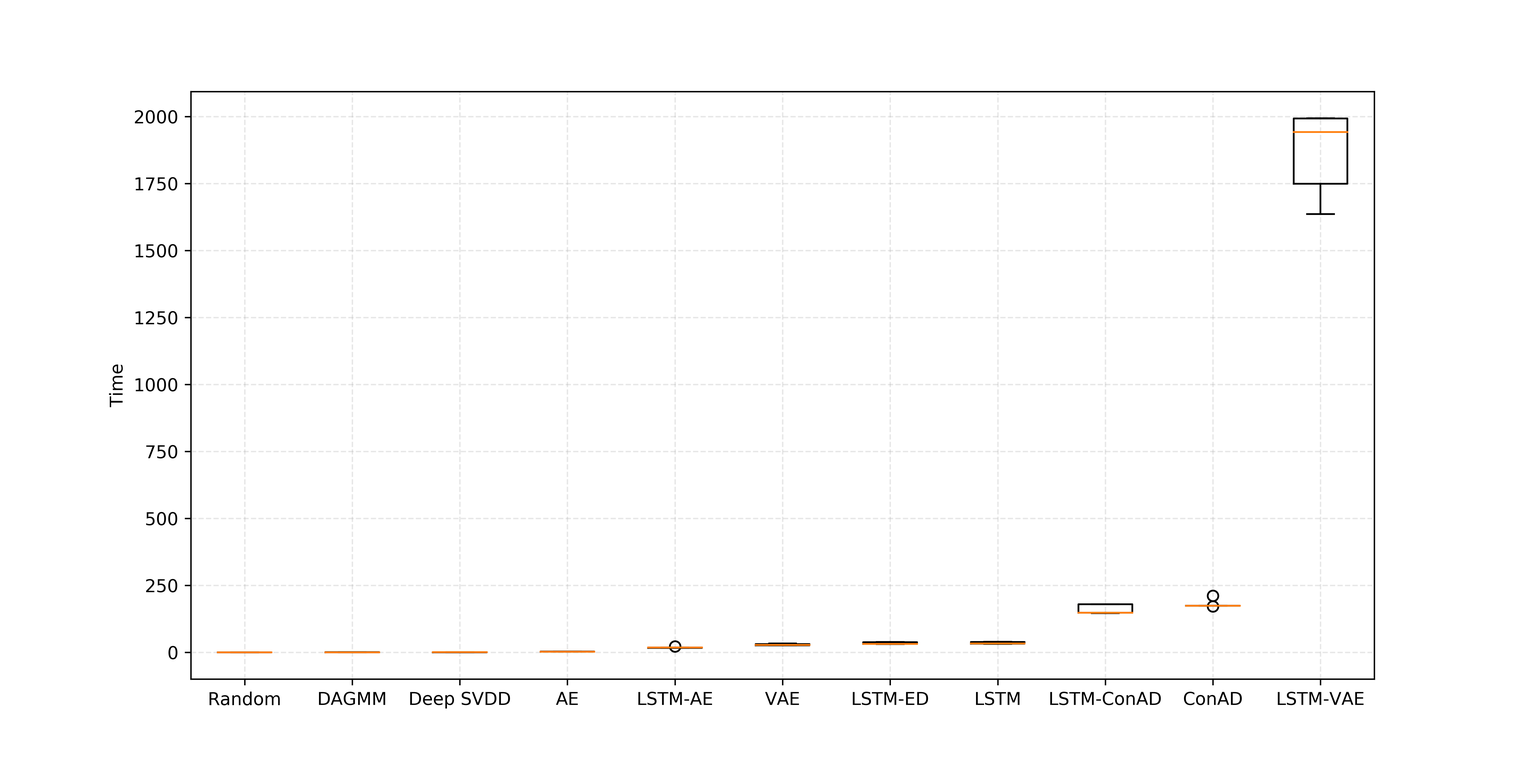
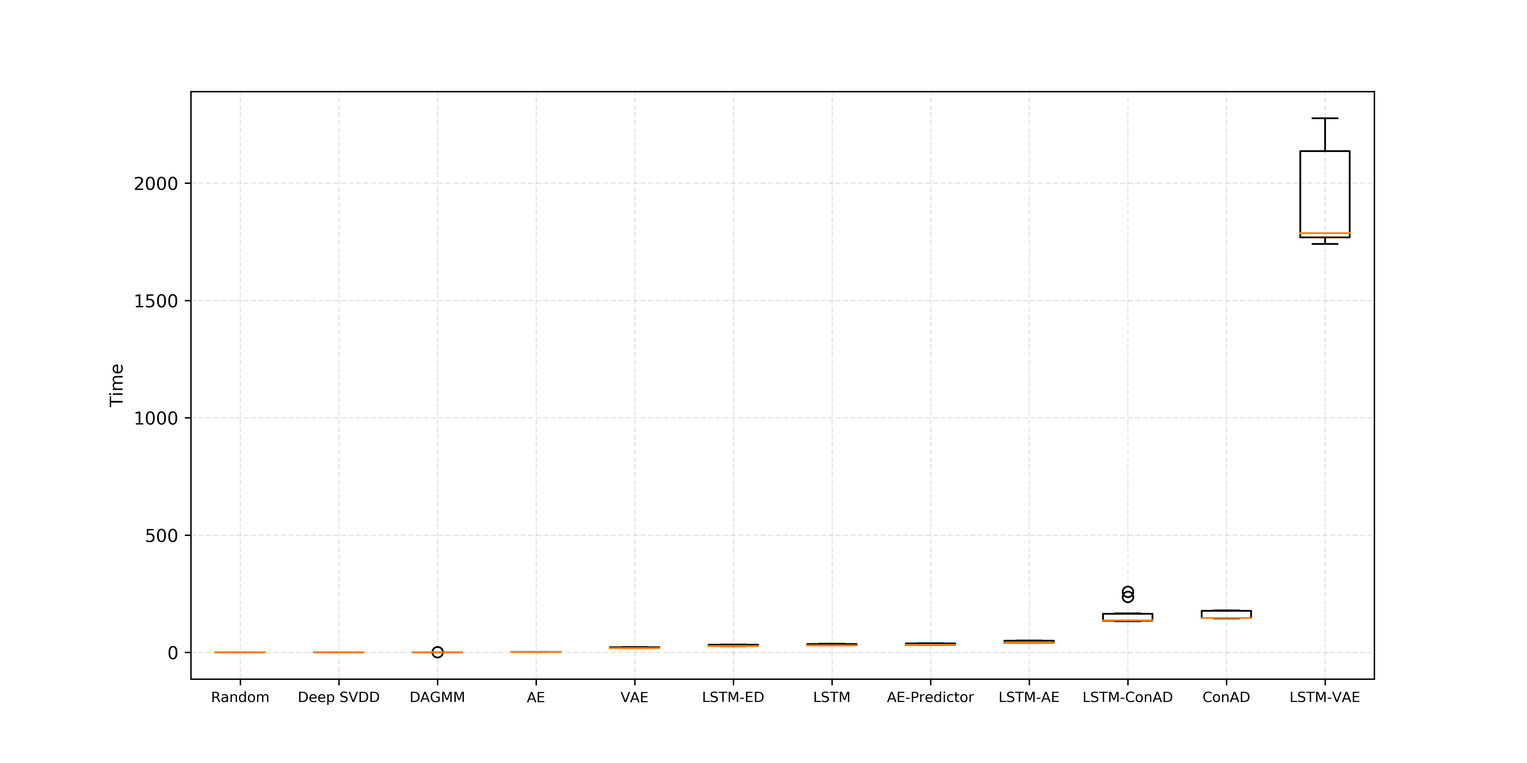
fix a piece of shit

diff --git a/data/chapter3.tex b/data/chapter3.tex
@@ -4,11 +4,11 @@
 \label{cha:intro}
 本章主要介绍本文实现的基于深度学习的时间序列异常检测框架，对执行流程和各个部分的设计进行详细说明。
 \section{形式化定义}
-首先我们形式化地描述一下时间序列异常检测问题。一个时间序列是等时间间隔收集到的各个指标的值，定义为$x=\{x_1,x_2,\dots,x_N\}$，$N$是采集的次数。由于本文考虑的是多元时间序列的异常检测，所以每个时间都会有多个监测指标的值，也就是其中$x_t\in R^M$，$x_t=[x_t^1,x_t^2,\dots,x_t^M]$，其中$t\leq N$，$M$是数据的维度。所以$x\in R^{N\times M}$。我们最终目标是输出一个$y=[y_1, y_2,\dots, y_N ]$，其中$y_t\in \{0,1\}$，$y_t=0$代表该时刻检测到的指标正常，否则认为发现一个异常。图\ref{fig:anomaly_example}展示了一个异常示例。
+首先我们形式化地描述一下时间序列异常检测问题。一个时间序列是等时间间隔收集到的各个指标的值，定义为$x=\{x_1,x_2,\dots,x_N\}$，$N$是采集的次数。由于本文考虑的是多元时间序列的异常检测，所以每个时间都会有多个监测指标的值，也就是其中$x_t\in R^M$，$x_t=[x_t^1,x_t^2,\dots,x_t^M]$，其中$t\leq N$，$M$是数据的维度。所以$x\in R^{N\times M}$。我们最终目标是输出一个$y=[y_1, y_2,\dots, y_N ]$，其中$y_t\in \{0,1\}$，$y_t=0$代表该时刻检测到的指标正常，否则认为发现一个异常。图\ref{fig:anomaly_example}展示了一个异常示例，其中标红部分为一个出现异常的事件段。
 \begin{figure}[htbp]
   \centering
   \includegraphics[width=\textwidth]{another_anomaly_example.png}
-  \caption{多维时间序列数据中的一个异常示例，其中标红部分为一个异常}
+  \caption{多维时间序列数据中的一个异常示例}
   \label{fig:anomaly_example}
 \end{figure}
 
@@ -22,12 +22,11 @@
     \label{fig:part1_overview}
   \end{figure}
 
-我们的框架分为训练和测试两种运行模式。
+本文涉及的框架分为训练和测试两个步骤。
 
-在训练模式中，我们需要先用正常数据结合某个特定的模型训练出一个适用于该数据集的模型。然后在测试时，模型对于每一时刻会输出一个异常分数通常为非负实数表示此时的异常程度，值越大表示越异常，但由于我们想得到的只有是否是异常，所以通常情况下我们还需要模型来提供一个阈值，当异常程度>给定阈值时，认为该条数据是异常，否则认为正常，然后将得到的预测结果送到评估模块与真实的异常标签进行结果的评估。由于阈值的确立有多种方法，每个算法适用的确立阈值的方法的也不尽相同，，因此我们同时枚举所有可能的阈值对结果进行评估，选取结果最好的来衡量模型的上限\cite{xu2018unsupervised,su2019robust,DBLP:conf/ipccc/LiCP18,DBLP:conf/infocom/ChenXLPCQFW19}，而且从实验结果来看这种方法下得到的指标与确立阈值之后指标有很强的相关性。
+在训练时，需要先用正常数据结合某个特定的模型训练出一个适用于该数据集的模型。然后在测试时，模型对于每一时刻会输出一个异常分数通常为非负实数表示此时的异常程度，值越大表示越异常，但由于最终输出的是一个是否是异常的01值，所以通常情况下还需要模型来提供一个阈值，当异常程度>给定阈值时，认为该条数据是异常，否则认为正常，然后将得到的预测结果送到评估模块与真实的异常标签进行结果的评估。由于阈值的确立有多种方法，每个算法适用的确立阈值的方法的也不尽相同，因此本文还同时枚举所有可能的阈值对结果进行评估，选取结果最好的来衡量模型的上限\cite{xu2018unsupervised,su2019robust,DBLP:conf/ipccc/LiCP18,DBLP:conf/infocom/ChenXLPCQFW19}。
 
-接下来分别对系统的几个关键部分进行阐述。
-
+接下来分别对框架的几个关键部分进行阐述
 \section{数据集选择}
 目前用来做多维时间序列数据异常检测的数据集如表~\ref{tab:dataset}所示：
 
@@ -87,24 +86,24 @@
 
 \section{动态阈值选取模块}
 因为我们在算法选择部分均是实现的无监督的算法，因此通常算法输出的是一个异常分数的非负实数值，而不是一个0或者1的确切值，也就是说我们得到的实际是$s = [s_1, s_2,\dots,s_N]$，其中$s_t\in R^+$，$t\leq N$，要想进一步得到$y$，我们需要一个模型提供的或者人为提供的阈值threshold来作进一步的变换：
-\begin{equation}
+\begin{equation*}
   y_t = \begin{cases}
     0, & s_t < threshold \cr
     1, & s_t \geq threshold
   \end{cases}
-\end{equation}
+\end{equation*}
 
 通常情况下，该阈值的确立有多种方法，一种是假设异常分数满足特定分布，例如高斯分布，求出正常数据下的异常分数的均值$\mu$和方差$\sigma$，那么异常分数超过$\mu + 3\sigma$的数据理论上不到0.3\%，那么我们就可以认为异常分数位于这个范围内数据是异常，但实际的异常分数很难从理论上证明符合高斯分布，通常情况下也确实不符合；还有一种比较简单的方式是假设异常是异常分数最高的那一批，通过人为设定一个分位数，例如5\%，那么在测试时就直接将最高的那5\%的数据标为异常，但这个分位数的选取也是个难题，毕竟异常的比例也不是事先就知道的，而且，还需要我们事先遍历整个测试集的情况下才能确立阈值，意味着我们只能做离线的异常检测；还有一种方法是通过在验证集上选取合适的阈值以及基于验证集和测试集情况类似的假设来期待在测试集上获得较好的效果，这种方法的缺点在于我们还需要另一份有标数据来进行阈值的确定，在真正落地的时候难度较大。
 
-受到\cite{siffer2017anomaly}的启发，我们使用了极值理论中的POT方法来确立异常分数的阈值，好处是无需对原分布做出任何假设，可以高效、准确、在线地确立阈值。其基本思想就是通过带有参数的GPD\footnote{Generalized Pareto Distribution，广义帕累托分布}来拟合概率分布的尾部：
-\begin{equation}
+受到\cite{siffer2017anomaly}的启发，我们使用了极值理论中的POT方法来确立异常分数的阈值，好处是无需对原分布做出任何假设，可以准确、在线地确立阈值。其基本思想就是通过带有参数的GPD\footnote{Generalized Pareto Distribution，广义帕累托分布}来拟合概率分布的尾部：
+\begin{equation*}
   \hat{F}_{th}(s) = P(S - th > s | S > th) \approx (1 + \frac{\gamma s}{\beta})^{-\frac{1}{\gamma}}
-\end{equation}
+\end{equation*}
 
 其中$th$是一个异常分数的初始阈值，用来确定尾部区域，可以凭经验地设为正常数据的异常分数的一个较大的分位数，$\gamma$和$\beta$是GPD的形状和比例参数，是两个未知参数，我们用最大似然估计的方法得到参数$\hat{\gamma}$和$\hat{\beta}$，然后通过以下公式计算最终阈值$th_F$：
-\begin{equation}
+\begin{equation*}
   th_F \approx th + \frac{\hat{\beta}}{\hat{\gamma}}((\frac{qN'}{N_{th}})^{-\hat{\gamma}}-1)
-\end{equation}
+\end{equation*}
 
 其中$q$是观察$S<th_F$的期望概率，也是POT算法的一个输入，可以凭经验确定，$N$是总的数据点个数，$N_{th}$是"尾部"的数据点的个数。
 
@@ -129,41 +128,41 @@
 
 \section{评价模块}
 在异常检测领域，用的最多的评价指标是F\_1-Score，计算方式为
-\begin{equation}
+\begin{equation*}
   Precision = \frac{TP}{TP + NP}
-\end{equation}
+\end{equation*}
 
-\begin{equation}
+\begin{equation*}
   Recall = \frac{TP}{TP + FN}
-\end{equation}
+\end{equation*}
 
-\begin{equation}
+\begin{equation*}
   F_1-Score = 2\times \frac { Precision \times Recall}{Precision + Recall}
-\end{equation}
+\end{equation*}
 
 其中$TP$、$TN$、$FP$、$FN$分别代表true positives、true negatives、false positives和 false negatives。$Precision$描绘的是实际异常占检测出的所有异常的比例，而$Recall$描绘了所有的异常中被检测到的比例，直觉上来看，两者是对立的，单用其中一个用来评价检测器的性能是不合理的。但在单点的异常检测中，将它们结合在一起的$F_1-Score$已经被认为是公认的有效的评价方式。但对于时间序列数据的异常检测来说，这样的评价就不太准确。主要原因是因为在时间序列数据中异常的发生通常是连续的一段，如图\ref{fig:anomaly_example}所示。对于一段真正的异常而言，检测到异常的点的个数以及检测出来的位置都反映了模型效果的不同，例如一段长度为10的异常，模型$A$检测到了其中的8个，而模型$B$只检测到了1个，那么相对而言前者的效果会更好；如果模型$A$在这段异常开始的第一个位置就检测到了异常，而模型$B$直到第5个点才检测到，那么在实际投入使用时，前者的效果一定是我们更想要，能够帮助工作人员更早地发现异常。之前的一些工作\cite{xu2018unsupervised}\cite{su2019robust}用了一种point-wise的方法来对算法得到的结果进行调整然后再进行评估，具体就是对于一个真实的异常而言，如果我们的算法主要检测到了范围内的一个，那么整段异常就认为都被检测到。该评价方法就没有考虑到检测到的点的位置和检测到的点数的影响，会造成评价指标的虚高。
 
 基于以上考虑，我们借用了\cite{tatbul2018precision}的新型的Precision和Recall的计算方式。
 
 首先我们将异常表示成区间的集合，真实的异常为$R=[R_1,R_2,\dots,R_{N_r}]$，其中每个$R_i$代表一个区间的异常，我们不放人为$R_i.l$和$R_i.r$分别代表该区间的左右端点。同理$P=[P_1,P_2,\dots,P_{N_p}]$表示预测出来的异常。
-\begin{equation}
+\begin{equation*}
   Recall(R,P) = \frac{\sum_{i=1}^{N_r} Recall_T(R_i,P)}{N_r}
-\end{equation}
+\end{equation*}
 
 其中$Recall_T$的计算由两部分加权组成：分别考虑了存在性以及位置性。
-\begin{equation}
+\begin{equation*}
   Recall_T(R_i,P) = \alpha \times ExistenceReward(R_i,P) + (1-\alpha) \times OverlapReward (R_i,P)
-\end{equation}
+\end{equation*}
 
 存在性只需要判断是否存在一个检测出的异常区间当前的实际异常有交集。
-\begin{equation}
+\begin{equation*}
 ExistenceReward(R_i,P) = \begin{cases} 1, & \ \exists \  | R_i \cap P_j|>1 \cr 0, & otherwise \end{cases}
-\end{equation}
+\end{equation*}
 
 而相交性则需要考虑重叠的位置和大小的关系，此处我们认为对于一个异常来说，越开始检测到对我们来说越重要，因此我们将靠前的位置分配较大的权重，具体计算如图~\ref{algorithm:omega1}所示。
-\begin{equation}
+\begin{equation*}
   OverlapReward(R_i,P) = \sum_{j=1}^{N_p}\omega(R_i,R_i\cap P_j)
-\end{equation}
+\end{equation*}
 \begin{algorithm}
   \caption{$\omega$ 计算方法1}
   \begin{algorithmic}
@@ -202,14 +201,14 @@ ExistenceReward(R_i,P) = \begin{cases} 1, & \ \exists \  | R_i \cap P_j|>1 \cr 0
 
 新型Precision的计算方式类似：
 
-\begin{equation}
+\begin{equation*}
 Precision(R,P) = \frac{\sum_{i=1}^{N_p}Precision_T(R,P_i)}{N_p}
-\end{equation}
+\end{equation*}
 
 区别是$Precision_t(R,P_i)$的计算不需要考虑$ExistenceReward$，直接按照检测到的位置算贡献即可:
-\begin{equation}
+\begin{equation*}
 Precision_T(R,P_i) = \sum_{j=1}^{N_r}\omega(P_i,P_i\cap R_j)
-\end{equation}
+\end{equation*}
 
   该评价方式虽然考虑的全面，但是随之而来的就是计算代价很大，复杂度为$O(N_r\times N_p)$。当我们需要计算所有阈值的结果并选取最好的时候，考虑阈值按从大到小枚举所有可能的$N$个，最坏情况下的$N_p$序列为$\{1,2,3,\dots,\frac{N}{2},\frac{N}{2}-1,\frac{N}{2}-2,\dots,1\}$，则总的计算复杂度为$O(N_r\times N^2)$。
 
@@ -425,7 +424,7 @@ Precision_T(R,P_i) = \sum_{j=1}^{N_r}\omega(P_i,P_i\cap R_j)
     \bottomrule
     \end{tabular}
     \caption{单点异常检测模型结合时序模型后模型效果的变化}
-    \label{tab:lstm-diff} 
+    \label{tab:lstm-diff}
 
 \end{table}
 
@@ -454,14 +453,14 @@ Precision_T(R,P_i) = \sum_{j=1}^{N_r}\omega(P_i,P_i\cap R_j)
 
 \begin{figure}[htbp]
   \centering
-  \includegraphics[width=\textwidth]{predict_time_with_pot.png}
+  \includegraphics[width=\textwidth]{spot_time.png}
   \caption{POT方法评估时间}
   \label{fig:pot:time}
 \end{figure}
 
 \begin{figure}[htbp]
   \centering
-  \includegraphics[width=\textwidth]{eval_time.png}
+  \includegraphics[width=\textwidth]{best_eval_time.png}
   \caption{枚举所有阈值评估时间}
   \label{fig:eval:time}
 \end{figure}

diff --git a/data/chapter2.tex b/data/chapter2.tex
@@ -5,16 +5,16 @@
 \section{时间序列异常检测技术}
 时间序列异常检测是一个很经典的问题。传统方法主要基于统计，最常用也最高效的是基于3$\sigma$原则，基于历史的数据分布来确定当前数据的合理波动范围，它假设数据分布满足正态分布，因此不在$(\mu - 3\sigma,\mu + 3\sigma)$范围内的数据极有可能是异常值。但实际数据可能不符合正态分布的假设，具体使用的标准差倍数也很难统一。另一种常用的是ARIMA\footnote{Autoregressive Integrated Moving Average model，差分整合移动平均自回归模型}方法，该方法适用于平稳、少突降/突增的数据，通过前一段的时间的数据来预测下一个时刻的数据，然后通过比较预测值和真实值的差异来判断异常的发生，但该方法有7个参数需要确定，不同的时间序列数据难以找到一套自动化的流程来确定参数。
 
-近年来，随着人工智能技术的发展，越来越多的深度学习技术被用到了这一领域。而鉴于异常检测这一问题的特殊性：标签难以获得以及难以穷尽所有的异常，想要得到所有的有标数据然后做一个二分类的有监督学习是不现实的，因此目前在异常检测这里领域无监督方法还是主流，也就是用正常的数据训练，在这个过程中学习到正常数据的模式，而根据测试数据中夹杂的异常不符合正常数据的模式这一特性将异常区分出来。而无监督的方法也有各种思路：Malhotra\cite{malhotra2015long}首次将LSTM\footnote{Long Short-Term Memory，长短期记忆人工神经网络}用于时间序列异常检测这一领域，在假设一段时间内的预测误差符合高斯分布的情况下，通过预测数据与真实数据的误差来判断异常；An\cite{an2015variational}则利用VAE\footnote{Varitional AutoEncoder，变分自编码器}的特点对正常数据用重构的方法来做单点的异常检测，并且不同于用AE\footnote{AutoEncoder，自编码器}来做重构的方法，用重构误差来作为评判异常的标准，而是提出了重构概率的概念，相比AE鲁棒性更强；Xu\cite{xu2018unsupervised}则进一步将VAE用到了单条时间序列数据的异常检测上；Malhotra\cite{malhotra2016lstm}则将预测与重构结合起来，提出了基于LSTM的Encoder-Decoder模型，有效吸取了两者的优点，换了LSTM在面临某些无法预测的时间序列的时候表现差的问题；除了预测和重构之外，Ruff\cite{ruff2018deep}用神经网络来实现OC-SVM\footnote{One-Class Support Vector Machine，一分类支持向量机}来解决传统OC-SVM在面临高维数据时表现差的问题；Zong\cite{zong2018deep}则将AE与传统的GMM\footnote{Gaussian Mixture Model，高斯混合模型}模型结合起来，前者用来将数据压缩到较低维度，而后者则在低纬度下已经被证明是一个有效的检测模型；最近，Park\cite{park2018multimodal}将LSTM和VAE结合起来，规避了VAE本身并不是一个时序模型的特点，将其用于机器人的传感器数据异常检测上并获得了不错的效果；Su\cite{su2019robust}则进一步考虑了VAE中随机变量的时序性的特点，在ServerMachineDataset数据集下实现了目前为止最好的结果。
+近年来，随着人工智能技术的发展，越来越多的深度学习技术被用到了这一领域。而鉴于异常检测这一问题的特殊性：标签难以获得以及难以穷尽所有的异常，想要得到所有的有标数据然后做一个二分类的有监督学习是不现实的，因此目前在异常检测这里领域无监督方法还是主流，也就是用正常的数据训练，在这个过程中学习到正常数据的模式，而根据测试数据中夹杂的异常不符合正常数据的模式这一特性将异常区分出来。而无监督的方法也有各种思路：Malhotra\cite{malhotra2015long}首次将LSTM用于时间序列异常检测这一领域，在假设一段时间内的预测误差符合高斯分布的情况下，通过预测数据与真实数据的误差来判断异常；An\cite{an2015variational}则利用VAE\footnote{Varitional AutoEncoder，变分自编码器}的特点对正常数据用重构的方法来做单点的异常检测，并且不同于用AE来做重构的方法，用重构误差来作为评判异常的标准，而是提出了重构概率的概念，相比AE鲁棒性更强；Xu\cite{xu2018unsupervised}则进一步将VAE用到了单条时间序列数据的异常检测上；Malhotra\cite{malhotra2016lstm}则将预测与重构结合起来，提出了基于LSTM的Encoder-Decoder模型，有效吸取了两者的优点，换了LSTM在面临某些无法预测的时间序列的时候表现差的问题；除了预测和重构之外，Ruff\cite{ruff2018deep}用神经网络来实现OC-SVM\footnote{One-Class Support Vector Machine，一分类支持向量机}来解决传统OC-SVM在面临高维数据时表现差的问题；Zong\cite{zong2018deep}则将AE与传统的GMM\footnote{Gaussian Mixture Model，高斯混合模型}模型结合起来，前者用来将数据压缩到较低维度，而后者则在低纬度下已经被证明是一个有效的检测模型；最近，Park\cite{park2018multimodal}将LSTM和VAE结合起来，规避了VAE本身并不是一个时序模型的特点，将其用于机器人的传感器数据异常检测上并获得了不错的效果；Su\cite{su2019robust}则进一步考虑了VAE中随机变量的时序性的特点，在ServerMachineDataset数据集下实现了目前为止最好的结果。
 
 但时间序列异常检测方面一直面临一个难题，就是如何评估的问题。首先不能像单点异常一样直接计算$Precision$和$Recall$，因为其前后有相关性。Hundman\cite{DBLP:conf/kdd/HundmanCLCS18}使用的方法是将一整段异常作为一个异常来算$Precision$和$Recall$，但如何定义一段异常被检测到与否对每个算法来说也是难以确定的；Xu\cite{xu2018unsupervised}提出了一种简单的调整的方式，认为一段异常只要有一个点被检测到那么整段都认为被检测到，然后在这个基础上重新计算$Precision$和$Recall$，但该方法也存在不够准确的方法，而且往往评价指标会虚高，因为对于一段很长的异常来说，模型只要能够检测到最为异常的那一个点，就能获得整段的分数。Tatbul\cite{tatbul2018precision}则系统地研究了这个问题，并且提出了一种新的针对时间序列的$Precision$和$Recall$的计算方式，通过将预测异常和真实异常都表示为区间的方式，综合考虑到预测异常与真实异常的相交的大小、位置、唯一性带来的不同影响，为时间序列异常检测提供了一个较为合理的评价指标。
 
 \section{复杂系统中的根因定位}
 
-在云网络中的多点根因定位上，Lin\cite{lin2016automated}提出了异常传播路径的概念，将多点之间的关联边分为水平边和竖直边，其中虚拟机和虚拟机之间因为服务调用产生联系的为水平边，而由于共享一台物理机则是竖直边，在有了异常传播图的基础上到所有异常点的距离之和就作为评判一个点是根因的依据。Weng\cite{weng2018root}则针对公共云中的多级服务调用场景在此基础上做出了改进，在图中对边的类型进行了区分并且引入了边权，通过计算时间序列数据之间的相关性来作为边权，在追溯根因时也选择了用随机游走来更真实地模拟异常传播，实现了更加细致和具体场景下的根因分析。\cite{wu2020microrca}则在根因定位这一步上使用了Personal PageRank来更加高效和准确的计算根因。
+在云网络中的多点根因定位上，Lin\cite{lin2016automated}提出了异常传播路径的概念，将多点之间的关联边分为水平边和竖直边，其中虚拟机和虚拟机之间因为服务调用产生联系的为水平边，而由于共享一台物理机则是竖直边，在有了异常传播图的基础上到所有异常点的距离之和就作为评判一个点是根因的依据。Weng\cite{weng2018root}则针对公共云中的多级服务调用场景在此基础上做出了改进，在图中对边的类型进行了区分并且引入了边权，通过计算时间序列数据之间的相关性来作为边权，在追溯根因时也选择了用随机游走来更真实地模拟异常传播，实现了更加细致和具体场景下的根因分析。Wu\cite{wu2020microrca}则在根因定位这一步上使用了Personal PageRank来更加高效和准确的计算根因。
 
 以往的方法大都是将时间序列数据之间的相关性作为边权来构建异常传播图，在此基础上来考虑异常的传播，很少将时间序列数据异常检测与根因定位工作结合起来。因此本文旨在将二者结合起来，提出一个新的构图方式，在此基础上运用随机游走类算法得到根因。
 
 \section{小结}
-通过分析已有的相关工作，我们可以看出一方面，在时间异常检测领域，深度学习的方法缺乏一个统一的标准来评价，因此本文旨在建立这样一个通用的框架，内部使用合理的评价方式对已有的算法或者新算法进行性能、速度等各方面综合的评价；另一方面，在根因定位上以往的方法多与异常检测的联系不是那么紧密，我们希望能够将异常检测的结果作为异常传播图的一部分来，在此基础上进行随机游走来获得根因定位的结果。
+通过分析已有的相关工作，我们可以看出一方面，在时间异常检测领域，深度学习的方法缺乏一个统一的标准来评价，因此本文旨在建立这样一个通用的框架，内部使用合理的评价方式对已有的算法或者新算法进行性能、速度等各方面综合的评价；另一方面，在根因定位上以往的方法多与异常检测的联系不是那么密切，我们希望能够将异常检测的结果作为异常传播图的一部分，在此基础上进行随机游走来获得根因定位的结果。
 

diff --git a/data/chapter1.tex b/data/chapter1.tex
@@ -4,26 +4,38 @@
 \label{cha:intro}
 
 \section{研究背景}
-近几年，由于互联网业务的快速发展，越来越多的企业和个人选择将自己的服务部署在云网络上。随之而来的是网络规模的增加以及频繁发生的大规模网络故障。因此在云网络中进行异常检测和根因定位对维持云网络稳定运行有着重大意义。
+近几年，由于互联网业务的快速发展，越来越多的企业和个人选择将自己的服务部署在云网络上。随之而来的是网络规模的增加以及难以分析的大规模网络故障。因此在云网络中进行异常检测和根因定位对维持云网络稳定运行有着重大意义。
 
-异常检测方面，通常我们需要监控云网络中一个节点的状态，在每个时刻，我们可以得到该点的一些指标，例如CPU利用率、内存利用率、网络吞吐量等，我们需要结合过往的指标值来推测这一时刻该节点的表现是否正常，可以将该问题抽象为一个多元时间序列数据的异常检测问题。过去已经有一些方法来解决该问题，但目前工业界上用的最多的还是人为地为各个指标设定一个根据经验得来的阈值，存在耗费人力以及大量误报的问题。近些年不少学者\cite{an2015variational,malhotra2015long,malhotra2016lstm,nguyen2018anomaly,park2018multimodal,ruff2018deep,su2019robust,zong2018deep,xu2018unsupervised,siffer2017anomaly}提出了用深度学习的方法来进行该问题的检测，将流程自动化、不需要人为参与的同时又能达到较高的准确率。但目前的工作缺乏一个统一的运行环境和评价标准，通常是各自用自己的数据集和评判标准，因此本文提出了一个通用的深度学习方法的多元时间序列数据异常检测框架，并提供了多种高效、合理的评价方式来进行算法之间的综合比较。
+对于云网络的异常检测，通常需要监控云网络中一个节点的状态，在每个时刻，可以得到该点的一些指标，例如CPU利用率、内存利用率、网络吞吐量等，监控者需要结合过往的指标值来推测这一时刻该节点的表现是否正常。该问题可以被抽象为一个多元时间序列数据的异常检测问题。传统的基于统计的方法存在通用性不够强、准确率较低的问题，而工业界上目前用的最多的还是人为地为各个指标设定一个根据经验得来的阈值，存在耗费人力以及大量误报的问题。近些年不少学者\cite{an2015variational,malhotra2015long,malhotra2016lstm,nguyen2018anomaly,park2018multimodal,ruff2018deep,su2019robust,zong2018deep,xu2018unsupervised,siffer2017anomaly}将深度学习的各种方法用到了这一领域，深度学习具有流程自动化、不需要人为参与的同时又能达到较高的准确率的优点。但目前的工作缺乏一个统一的运行环境和评价标准，通常是各自用自己的数据集和评判标准，难以进行横向的比较，因此本文设计了一个通用的基于深度学习方法的多元时间序列数据异常检测框架，并提供了高效、合理的评价方式来进行算法之间的综合比较。
 
-根因分析的任务则是要求我们在复杂系统中当有多点产生故障时，这些故障通常是相关联的，而且往往是由一个地方的故障扩散到整个系统，找出故障发生的根因。近几年陆续有这方面的工作\cite{lin2016automated,weng2018root,wu2020microrca}，基本思想都是通过直接或间接获取到节点之间的调用关系，通过用时间序列数据之间的相关性来构造出一张异常传播图，最后再用随机游走之类的方法来模拟异常传播或者追溯根因的方向，来找到根因。本文在构造传播图时充分结合了异常检测的结果，使得结果解释性更强，也更为准确。
+根因分析的任务则是要求在复杂系统中产生多点有关联的故障时，找出故障发生的根因。由于系统中的调用关系错综复杂，单点的故障很容易扩散出现大规模组件的异常，使得难以整体分析和快速做故障恢复。近几年的工作\cite{lin2016automated,weng2018root,wu2020microrca}，基本思想都是直接或间接获取到节点之间的调用关系，通过用时间序列数据之间的相关性来构造出一张异常传播图，最后再用随机游走之类的方法来模拟异常传播或者追溯根因的方向，来找到根因。本文在构造传播图时充分结合了异常检测的结果，使得结果解释性更强，也更为准确。
 
 
 \section{主要工作}
-本文的研究工作分为两个部分：
+本文的研究工作分为异常检测和根因分析两个部分。
+
+在异常检测方面，本文的主要工作如下：
 
 \begin{enumerate}
-    \item 针对云网络中的单点异常，本文提出了一个基于深度学习方法的多元时间序列异常检测框架，内部实现了主流的用于异常检测的多种深度学习方法，结合\cite{tatbul2018precision}和\cite{siffer2017anomaly}进行多种方式的评估，并且对计算效率进行了优化；
-    \item 针对云网络中的根因定位，本文将时间序列异常检测与随机游走结合起来，提出了一个解释性更强的算法，在AIOPS2020中投入使用，在前两阶段评测数据中获得了100\%的正确率。
+    \item 设计了一个适用于深度学习方法的多元时间序列异常检测框架，使用统一的数据集和评价方式进行评估，对各个算法进行了性能和效率方面的综合比较；
+    \item 选择并实现了LSTM\footnote{Long Short-Term Memory，长短期记忆人工神经网络}、AE\footnote{AutoEncoder，自编码器}、VAE\cite{an2015variational}、DAGMM\cite{zong2018deep}、Deep SVDD\cite{ruff2018deep}等算法；
+    \item 将单点异常检测算法与深度学习的时间序列模型结合改进提出了LSTM-VAE、LSTM-AE、LSTM-DAGMM以及设计实现了将重构和预测结合起来的AE-Predictor算法，并进行了与原模型实验结果的对比；
+    \item 采用了由极值理论推到得出的的POT\cite{siffer2017anomaly}方法来自动确立算法的阈值，而不依赖与验证集以及对原数据的强分布假设；
+    \item 实现了针对时间序列数据的Precision和Recall的新型计算方式\cite{tatbul2018precision}，并且在使用时对效率进行了改进，当枚举所有阈值算Precision和Recall的时候用并查集和增量更新的方式使得计算复杂度下降了一个数量级。
+\end{enumerate}
+
+在根因分析方面，本文的主要工作如下：
+
+\begin{enumerate}
+    \item 本文将时间序列异常检测的结果直接应用于异常传播图的构建中，与随机游走相结合，可解释性更强；
+    \item 在AIOPS2020挑战赛上进行实验，对算法的准确率进行了评估，可解释性进行了展示。
 \end{enumerate}
 \section{论文结构}
 本文内容分为五章：
 \begin{itemize}
     \item 第一章介绍本文的研究背景和主要工作；
     \item 第二章介绍相关工作，主要是异常检测和根因分析两方面，前者集中在近些年来用深度学习做异常检测的工作，后者集中介绍通过构建调用图和随机游走的方法进行根因分析的工作；
-    \item 第三章介绍本文设计实现的基于深度学习的时间序列异常检测框架，并且对框架的各部分进行详细说明；
+    \item 第三章介绍本文设计实现的基于深度学习的时间序列异常检测框架，并且对框架的各部分进行详细的介绍；
     \item 第四章介绍本文设计实现的基于时间序列异常检测的根因分析算法，以AIOPS2020挑战赛为背景介绍算法的实现细节；
     \item 第五章总结本文，揭示目前工作存在的一些不足，并对未来工作进行展望。
 \end{itemize}

diff --git a/data/abstract.tex b/data/abstract.tex
@@ -3,9 +3,9 @@
 % 中英文摘要和关键字
 
 \begin{abstract}
-  近些年来越来越多的企业和个人选择将自己的服务部署在云网络中，云网络的规模随之扩大，而且伴随而来的还有经常发生的大规模故障。当这些故障在复杂咋云网络场景中发生时，及时地检测和定位就成了一个难题。
+  近些年来越来越多的企业和个人选择将自己的服务部署在云网络中，云网络的规模和复杂性逐步增加的同时，也带来了难以分析的大规模故障，这时如何及时地检测故障和准确定位故障根因就成了一个亟需解决的难题。
 
-  本文以云网络为背景抽象出了两个问题进行研究，所提出的两个系统结合起来理论上可以在云网络中进行高效而准确的异常检测和根因定位。其一是用深度学习的方法对多元时间序列数据进行异常检测的框架，可以部署在云网络中的单点上，对每个时刻的多条指标检测曲线进行异常的发现，本文实现了多种算法并在ServerMachineDataset\cite{su2019robust}数据集上进行了测试和比较；其二是在复杂系统上的根因分析系统，可以部署在某一个闭环系统上，结合单点的异常情况和节点之间的拓扑关系找出异常发生的根本源头，本文提出的方法基于异常检测和随机游走，目前在AIOPS2020挑战赛的前两阶段中可以获得100\%的正确率。
+  本文以云网络为背景抽象出了两个问题进行研究，所提出的两个系统结合起来理论上可以在云网络中进行高效而准确的异常检测和根因定位。其一是用深度学习的方法对多元时间序列数据进行异常检测的框架，可以部署在云网络中的单点上，对每个时刻的多条指标曲线进行异常的发现，本文实现了多种算法并在相关数据集上进行了综合测试和比较；其二是在复杂系统上的根因分析系统，需要结合单点的异常情况和节点之间的拓扑关系找出异常发生的根本源头，本文提出了一个基于异常检测和随机游走的方法来解决该问题，在AIOPS2020挑战赛上测试获得了较高的准确率。
 
   % 关键词用“英文逗号”分隔
   \thusetup{
@@ -14,9 +14,10 @@
 \end{abstract}
 
 \begin{abstract*}
-  In recent years, more and more enterprises and individuals have chosen to deploy their services in the cloud network, and the scale of the cloud network has expanded accordingly, and it is accompanied by frequent large-scale failures. When these faults occur in a complex cloud network scenario, timely detection and location becomes a problem.
+  In recent years, more and more enterprises and individuals have chosen to deploy their services in the cloud network. As the scale and complexity of the cloud network gradually increase, it also brings large-scale failures that are difficult to analyze. Detecting faults and accurately locating the root cause of the faults have become an urgent problem to be solved.
 
-  In this paper, two problems are abstracted and studied based on the cloud network. The two systems proposed can theoretically perform efficient and accurate anomaly detection and root cause location in the cloud network. One is a framework for anomaly detection of multivariate time series data using deep learning methods, which can be deployed at a single point in the cloud network to discover anomalies for multiple index detection curves at each moment. The algorithm is tested and compared on the ServerMachineDataset dataset; the second is the root cause analysis system on complex systems, which can be deployed on a closed-loop system, combining single-point anomalies and the topological relationship between nodes to find the root cause of anomalies. The method proposed in this paper is based on anomaly detection and random walk. At present, 100\% accuracy rate can be obtained in the first two stages of the AIOPS2020 challenge.
+  In this thesis, two problems are abstracted and studied based on the cloud network. The two systems proposed can theoretically perform efficient and accurate anomaly detection and root cause location in the cloud network. One is a framework for anomaly detection of multivariate time series data using deep learning methods, which can be deployed at a single point in the cloud network to discover anomalies for multiple index curves at each time. This thesis implements multiple algorithms And conducted comprehensive tests and comparisons on related data sets; Another is the root cause analysis system on complex systems, which needs to combine single-point abnormalities and the topological relationship between nodes to find the root cause of abnormal occurrences. This thesis proposes a method based on anomaly detection and random walk to solve this problem, and the test obtained a high accuracy rate in the AIOPS2020 challenge.
+
   \thusetup{
     keywords* = {cloud network,anomaly detection, root cause analysis, random walk, deep learning},
   }

diff --git a/__latexindent_temp.tex b/__latexindent_temp.tex
@@ -46,7 +46,7 @@
 %% 本科生要求的几个索引。
 \listoffigures    % 插图索引
 \listoftables     % 表格索引
-\listofequations  % 公式索引
+%\listofequations  % 公式索引
 
 % 参考文献
 % \bibliographystyle{thuthesis-numeric}      % 顺序编码制
@@ -67,7 +67,7 @@
 % \input{data/appendix}
 
 % 个人简历
-\input{data/resume}
+% \input{data/resume}
 
 % 本科生的综合论文训练记录表
 \includepdf[pages=-]{scan-record.pdf}

diff --git a/main.tex b/main.tex
@@ -46,7 +46,7 @@
 %% 本科生要求的几个索引。
 \listoffigures    % 插图索引
 \listoftables     % 表格索引
-\listofequations  % 公式索引
+%\listofequations  % 公式索引
 
 % 参考文献
 % \bibliographystyle{thuthesis-numeric}      % 顺序编码制

diff --git a/thusetup.tex b/thusetup.tex
@@ -60,7 +60,7 @@
   % 指导教师
   %   中文姓名和职称之间以英文逗号“,”分开，下同
   %
-  supervisor  = {王之梁\ 副研究员},
+  supervisor  = {王之梁\ 副教授},
   %
   % 副指导教师
   %
